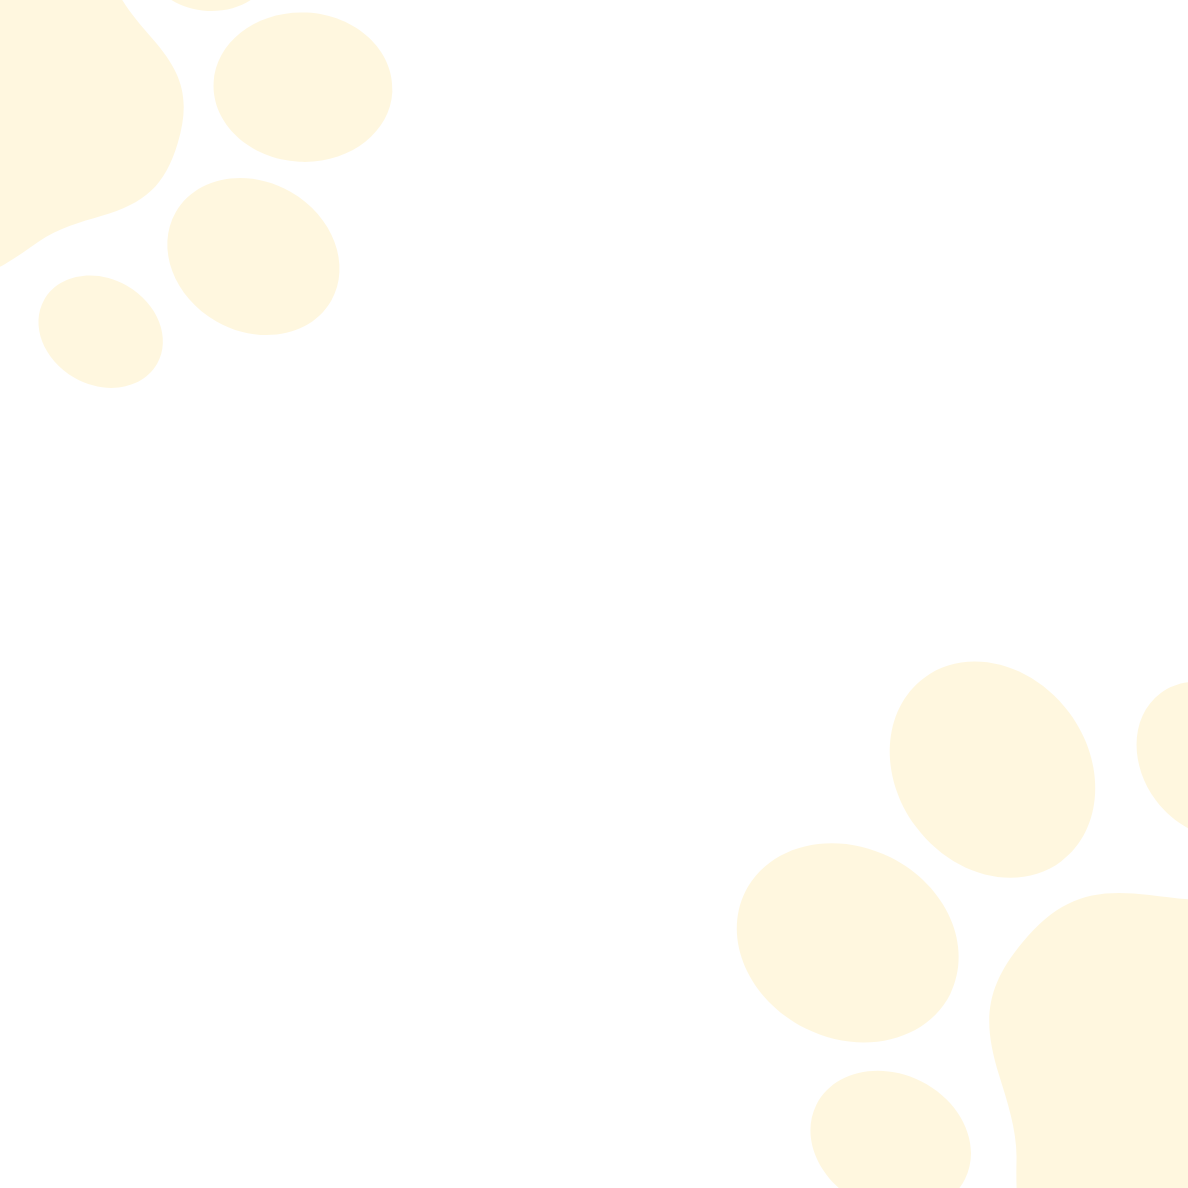
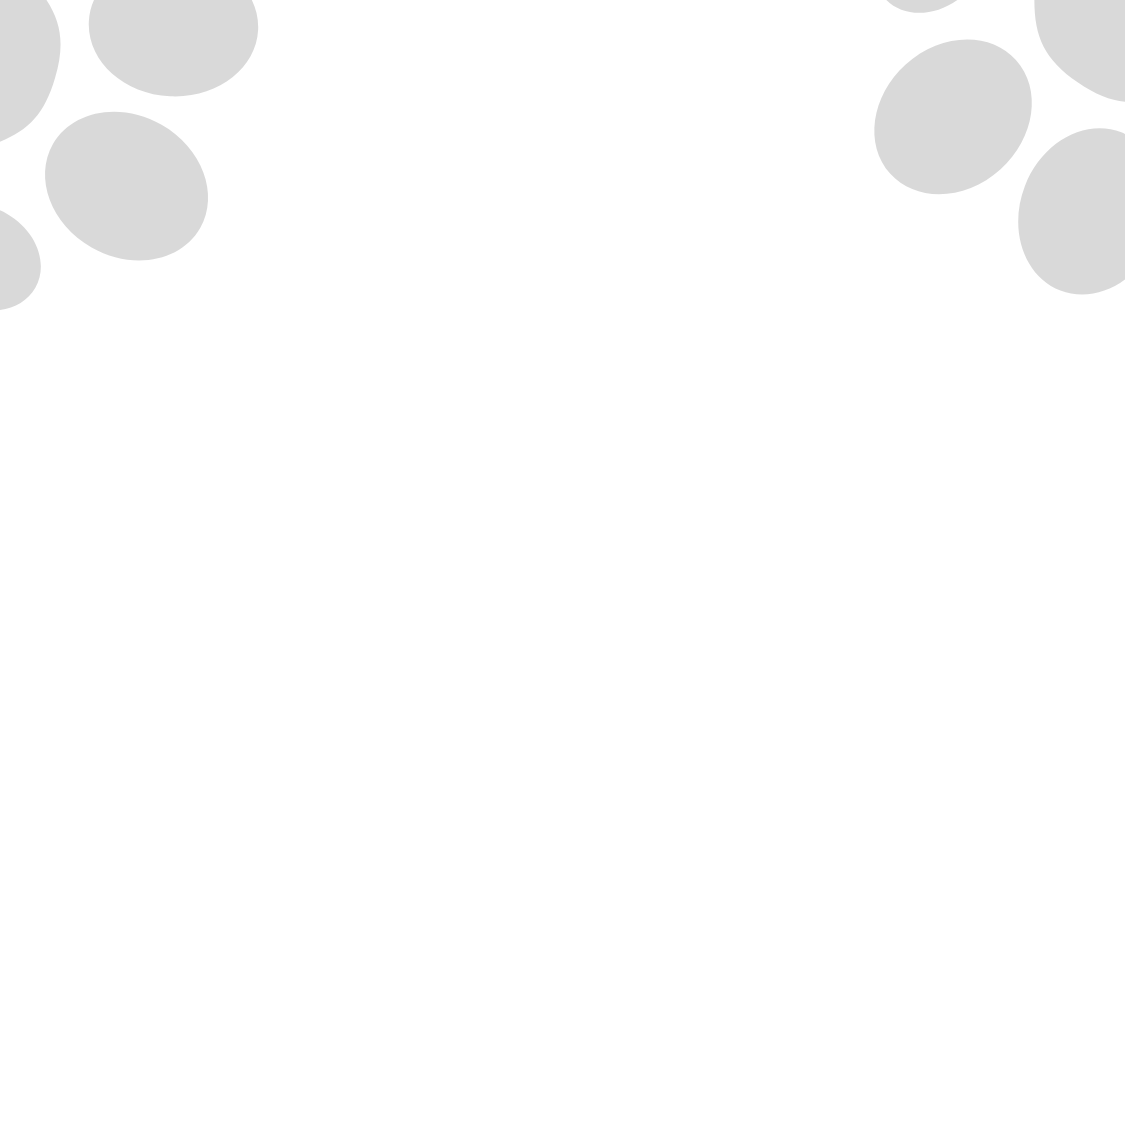
pawprint

Changed region(s): [[0.6222, 0.56, 1.0, 1.0], [0.0, 0.0, 0.3422, 0.3422], [0.7778, 0.0, 1.0, 0.28]]

diff --git a/src/index.css b/src/index.css
@@ -103,8 +103,7 @@ h1 {
 .paw-print-bg {
   background-image: url('./assets/pawprint.png');
   background-repeat: no-repeat;
-  background-position: top 1px; 
-  background-size: 650px, cover;
+  background-size: 450px, cover;
 }
 
 
